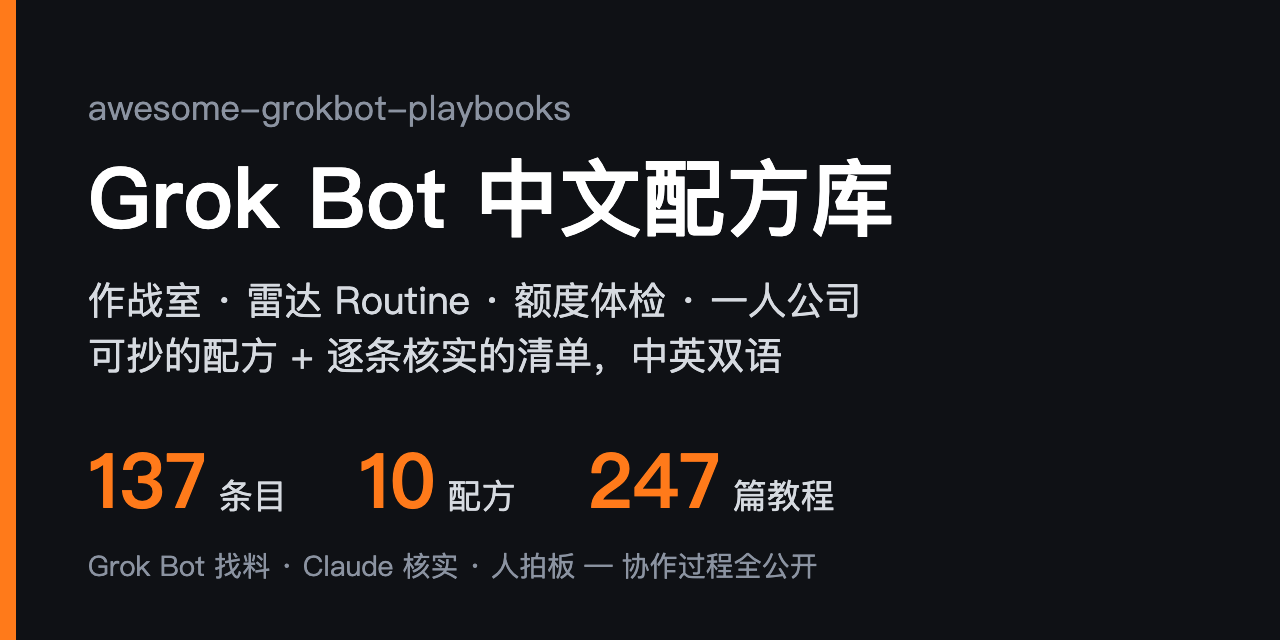
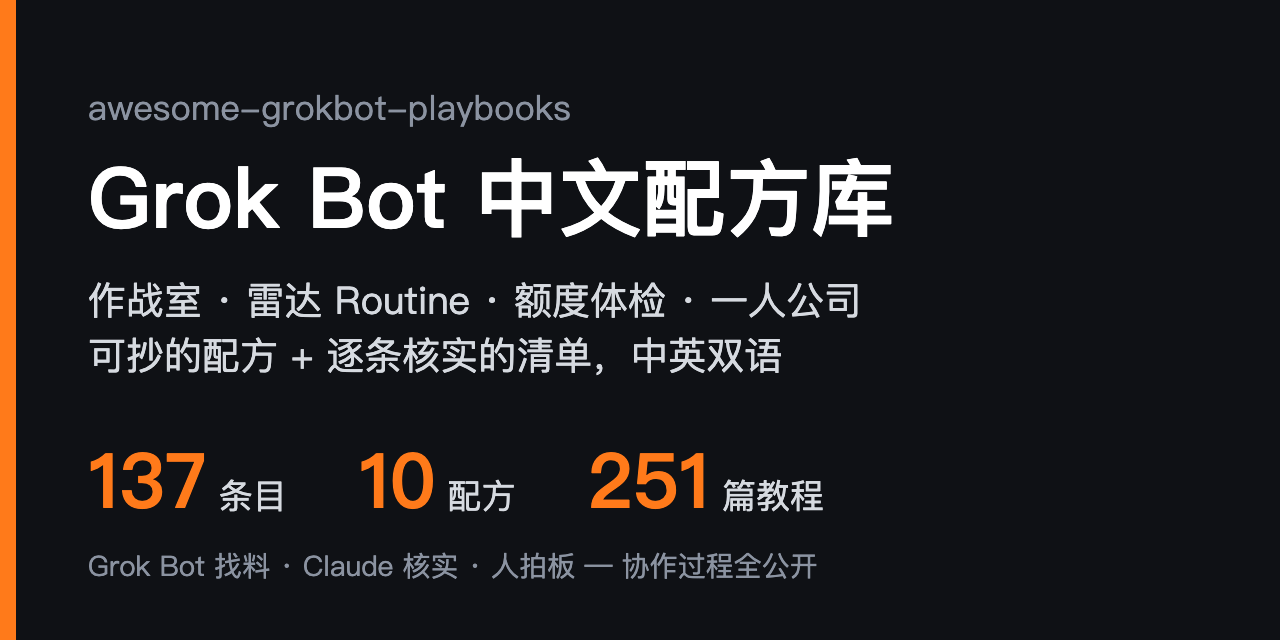
collab: loop #64 x-articles 214 -> 218 (tutorials 247 -> 251), recheck +2, reject 3

Changed region(s): [[0.5, 0.6875, 0.6562, 0.8125]]

diff --git a/README.en.md b/README.en.md
@@ -28,7 +28,7 @@
 | **137** | entries, each checked via the GitHub API or the live page: it exists, is still maintained and is actually about Grok Bot; license caveats are noted in the review |
 | **10** | copy-paste recipes in one format: scenario → inputs → steps → prompt → output → pitfalls, all examples sanitized |
 | **3 levels** | of verification: ✅ run end-to-end · 🔍 docs and config reviewed · no mark = repo verified only. ✅ is only for things actually run |
-| **247** | curated community tutorials and X articles ([33 tutorials](docs/community-tutorials.md) + [214 articles from top X creators](docs/x-articles.md)) plus the maintainer's own series, each checked for liveness, author and date |
+| **251** | curated community tutorials and X articles ([33 tutorials](docs/community-tutorials.md) + [218 articles from top X creators](docs/x-articles.md)) plus the maintainer's own series, each checked for liveness, author and date |
 | **2 AIs** | maintain it: Grok Bot scouts daily, Claude Code verifies and writes reviews, a human makes the calls. The full log is public in [`.collab/`](.collab/README.md) |
 
 Compared with the English ecosystem index [awesome-grok-bot](https://github.com/ZeroPointRepo/awesome-grok-bot), which is broad, this repo focuses on **solo founders, multi-bot war rooms, radar routines and copy-paste recipes**. Quality over quantity.
@@ -61,7 +61,7 @@ It is a different product from the Grok chat assistant and the Grok Build coding
 
 ## 🆕 Recently added
 
-- **10-28** Added four: the [Chief of Staff](https://github.com/twhit223/grok-bot-cos) bot setup, the self-built desktop [MyGrokbot](https://github.com/DynamaxVV/mygrokbot-host), a Chinese [Grok Bot handbook](https://github.com/AIPMAndy/grok-bot-handbook), and a [repro and guardrail](https://github.com/themsquared/grok-bot-cross-agent-leak) for the cross-bot leak incident; X articles grew to 214
+- **10-28** Added four: the [Chief of Staff](https://github.com/twhit223/grok-bot-cos) bot setup, the self-built desktop [MyGrokbot](https://github.com/DynamaxVV/mygrokbot-host), a Chinese [Grok Bot handbook](https://github.com/AIPMAndy/grok-bot-handbook), and a [repro and guardrail](https://github.com/themsquared/grok-bot-cross-agent-leak) for the cross-bot leak incident; X articles grew to 218
 - **10-27** Added nine: unofficial Node SDK [botter](https://github.com/jethros-projects/botter); the Chinese writer-bot series [Lingverse](https://github.com/lingverse-ai/lingverse); [grok-starter-kit](https://github.com/qubicsdata/grok-starter-kit); iCloud calendar MCP [Holdt](https://github.com/holdtapp/holdt); cloud-computer self-heal kit [grokbot-box-heal](https://github.com/heyalchang/grokbot-box-heal); personal fleet starter [Grok Bot OS](https://github.com/skorten/grokbot-os); routine control panel [GrugBot Console](https://github.com/devrecated/grokbot-management-console); multi-tool handoff CLI [Grok Bridge](https://github.com/niharnm/grok-bridge); a local take on Grok Bot for the Mac, [Local Bot](https://github.com/patrick-mns/localbot). X articles grew to 209
 - **10-26** Added one: [x-virality-score](https://github.com/monkeyteamvip/x-virality-score), a read-only routine that watches X hits, mines trend keywords and drafts rewrites of the top 10
 
@@ -258,7 +258,7 @@ Full history: [README commits](https://github.com/sit-in/awesome-grokbot-playboo
 - [Two bots leaked a CEO's bank balance to Slack: repro and guardrail](https://github.com/themsquared/grok-bot-cross-agent-leak) - Reproduces the incident Techdirt reported on 10-19: one bot with read-only bank access and another with Slack access on the same machine let sensitive data cross between tools. Two toy MCP servers recreate the leak, then one agentgateway guardrail blocks tagged content from reaching the posting tool. Comes with the author's write-up. Apache-2.0. Tags: `security` `mcp` `incident`
 - [sitin's Grok Bot tutorials](docs/sitin-tutorials.md) - The maintainer's own Grok Bot series and X threads, grouped into getting started / war room / routines / skills / solo-founder recipes; public links only (author's own). (Chinese) Tags: `chinese` `tutorials` `author`
 - [Community Grok Bot tutorials](docs/community-tutorials.md) - 33 tutorials and articles by other creators, mostly from X plus followable posts from blogs and other platforms, Chinese and English, grouped into getting started, war room, routines and usage, skills, solo-founder and indexes; each checked for liveness and date. (Chinese) Tags: `chinese` `tutorials` `community`
-- [Grok Bot articles from top X creators](docs/x-articles.md) - 214 long-form X articles and threads in Chinese and English, grouped into getting started, war room, routines and usage, skills, and solo-founder; only tutorials and real setups with genuine traction, and any numbers are the authors' own claims. (Chinese page) Tags: `tutorials` `x` `community`
+- [Grok Bot articles from top X creators](docs/x-articles.md) - 218 long-form X articles and threads in Chinese and English, grouped into getting started, war room, routines and usage, skills, and solo-founder; only tutorials and real setups with genuine traction, and any numbers are the authors' own claims. (Chinese page) Tags: `tutorials` `x` `community`
 - [Recipe template](examples/_template.md) - Format to follow before submitting a recipe: scenario / input / steps / prompt / output / pitfalls. (Chinese) Tags: `template` `learning`
 
 <sub>[⬆ Back to contents](#-contents)</sub>

diff --git a/.collab/recheck.md b/.collab/recheck.md
@@ -77,6 +77,8 @@ Claude 维护。仓库没过收录门槛（见 [CONTRIBUTING.md](../CONTRIBUTING
 | [bipa-app/grok-plugin](https://github.com/bipa-app/grok-plugin) | 11-04 | 0★ · MIT · 建 10-21 · 3 次提交 | 10-28 第 1 次延期：建仓后没有新提交；巴西 Bipa 的 Pix / boleto 支付插件，商业公司出品；收录时短评写明涉及真钱、付款要在 App 里生物识别批准 |
 | [brevitywithorion/context-transfer-skill](https://github.com/brevitywithorion/context-transfer-skill) | 11-04 | 0★ · MIT · 建 10-21 · 7 次提交 | 10-28 第 1 次延期：建仓后没有新提交；从持久记忆刷新上下文、对抗长线程 context rot 的 skill，带 evals；到期看是否还在维护、evals 能不能跑 |
 | [Tanmayjadhav2305/grok-bot-clone](https://github.com/Tanmayjadhav2305/grok-bot-clone) | 11-04 | 0★ · MIT · 建 10-21 · 1 次提交 | 10-28 第 1 次延期：建仓后没有新提交；本机仿 Grok Bot 的替代品，候选「自托管与平替」；到期没新提交就不收 |
+| [fenfenxu/grokbot-dispatch](https://github.com/fenfenxu/grokbot-dispatch) | 11-04 | 0★ · MIT · 建 10-28 · 最近提交 10-28 | 中文 skill：本机 Codex / Claude Code / Cursor 经 webhook routine 派单给 Grok Bot；过线时和 Silousr/grokbot-model-connector（反方向）、claude-grok-bridge 一起看 |
+| [ctrlcmdshft/awesome-grok-bots](https://github.com/ctrlcmdshft/awesome-grok-bots) | 11-04 | 0★ · CC0-1.0 · 建 10-28 · 最近提交 10-28 | 同类 Awesome：177 个第三方 Grok Bot，偏生活向（隐私清理、反骚扰、家庭网络），yaml 生成；过线时看放「模板与目录」还是「学习资源」 |
 | [Heldinhow/hermes-mcp-bridge](https://github.com/Heldinhow/hermes-mcp-bridge) | 10-29 | 0★ · MIT · 建 10-22 · 3 次提交 | 云端 agent 经隧道给本机 Hermes 派活的 MCP；到期先判断是否以 Grok Bot 为主，偏 Hermes 就不收 |
 | [frysquint/herdr-mcp](https://github.com/frysquint/herdr-mcp) | 10-29 | 0★ · MIT · 建 10-22 · 1 次提交 | Grok Bot 经 MCP 看管 Herdr 终端里的 Claude Code / Codex；和 wingman、grokbot-cli 同类，到期比一比有没有新东西 |
 | [maplenk/grok-wear](https://github.com/maplenk/grok-wear) | 10-29 | 0★ · 自定义 LICENSE（API 显示 NOASSERTION）· 建 10-22 · 2 次提交 | 非官方 Wear OS 手表语音客户端；到期读 LICENSE 原文，非标准许可证就不收 |

diff --git a/.collab/loop-state.md b/.collab/loop-state.md
@@ -1,7 +1,7 @@
 # loop-state
-- last_run: 2026-10-28 08:17 Asia/Shanghai
-- last_to_claude_heading: ### 2026-10-28 08:12 Grok 请 loop 审
+- last_run: 2026-10-28 10:17 Asia/Shanghai
+- last_to_claude_heading: ### 2026-10-28 10:05 Grok 请 loop 审
 - idle_rounds: 0
-- rounds_this_session: 63
+- rounds_this_session: 64
 - session_started: 2026-10-21 11:50 Asia/Shanghai（10-21 22:40 起改为早 8 点到凌晨 2 点每 2h，不设轮数上限；cron 5294bf8e）
 - note: 10-21 规则调整：门槛见 CONTRIBUTING#收录门槛；暂缓仓见 recheck.md（每轮看到期行）；早 8 点到凌晨 2 点每 2h；promo 不再同步，README 首图用 scripts/banner.py 随数字重出（HTML 模板 assets/banner/banner.html），社交预览用不带数字的 social-card.png。README 分区 9 个、标题带 emoji，锚点带前导 -；🆕 最近更新留最近 3 行
